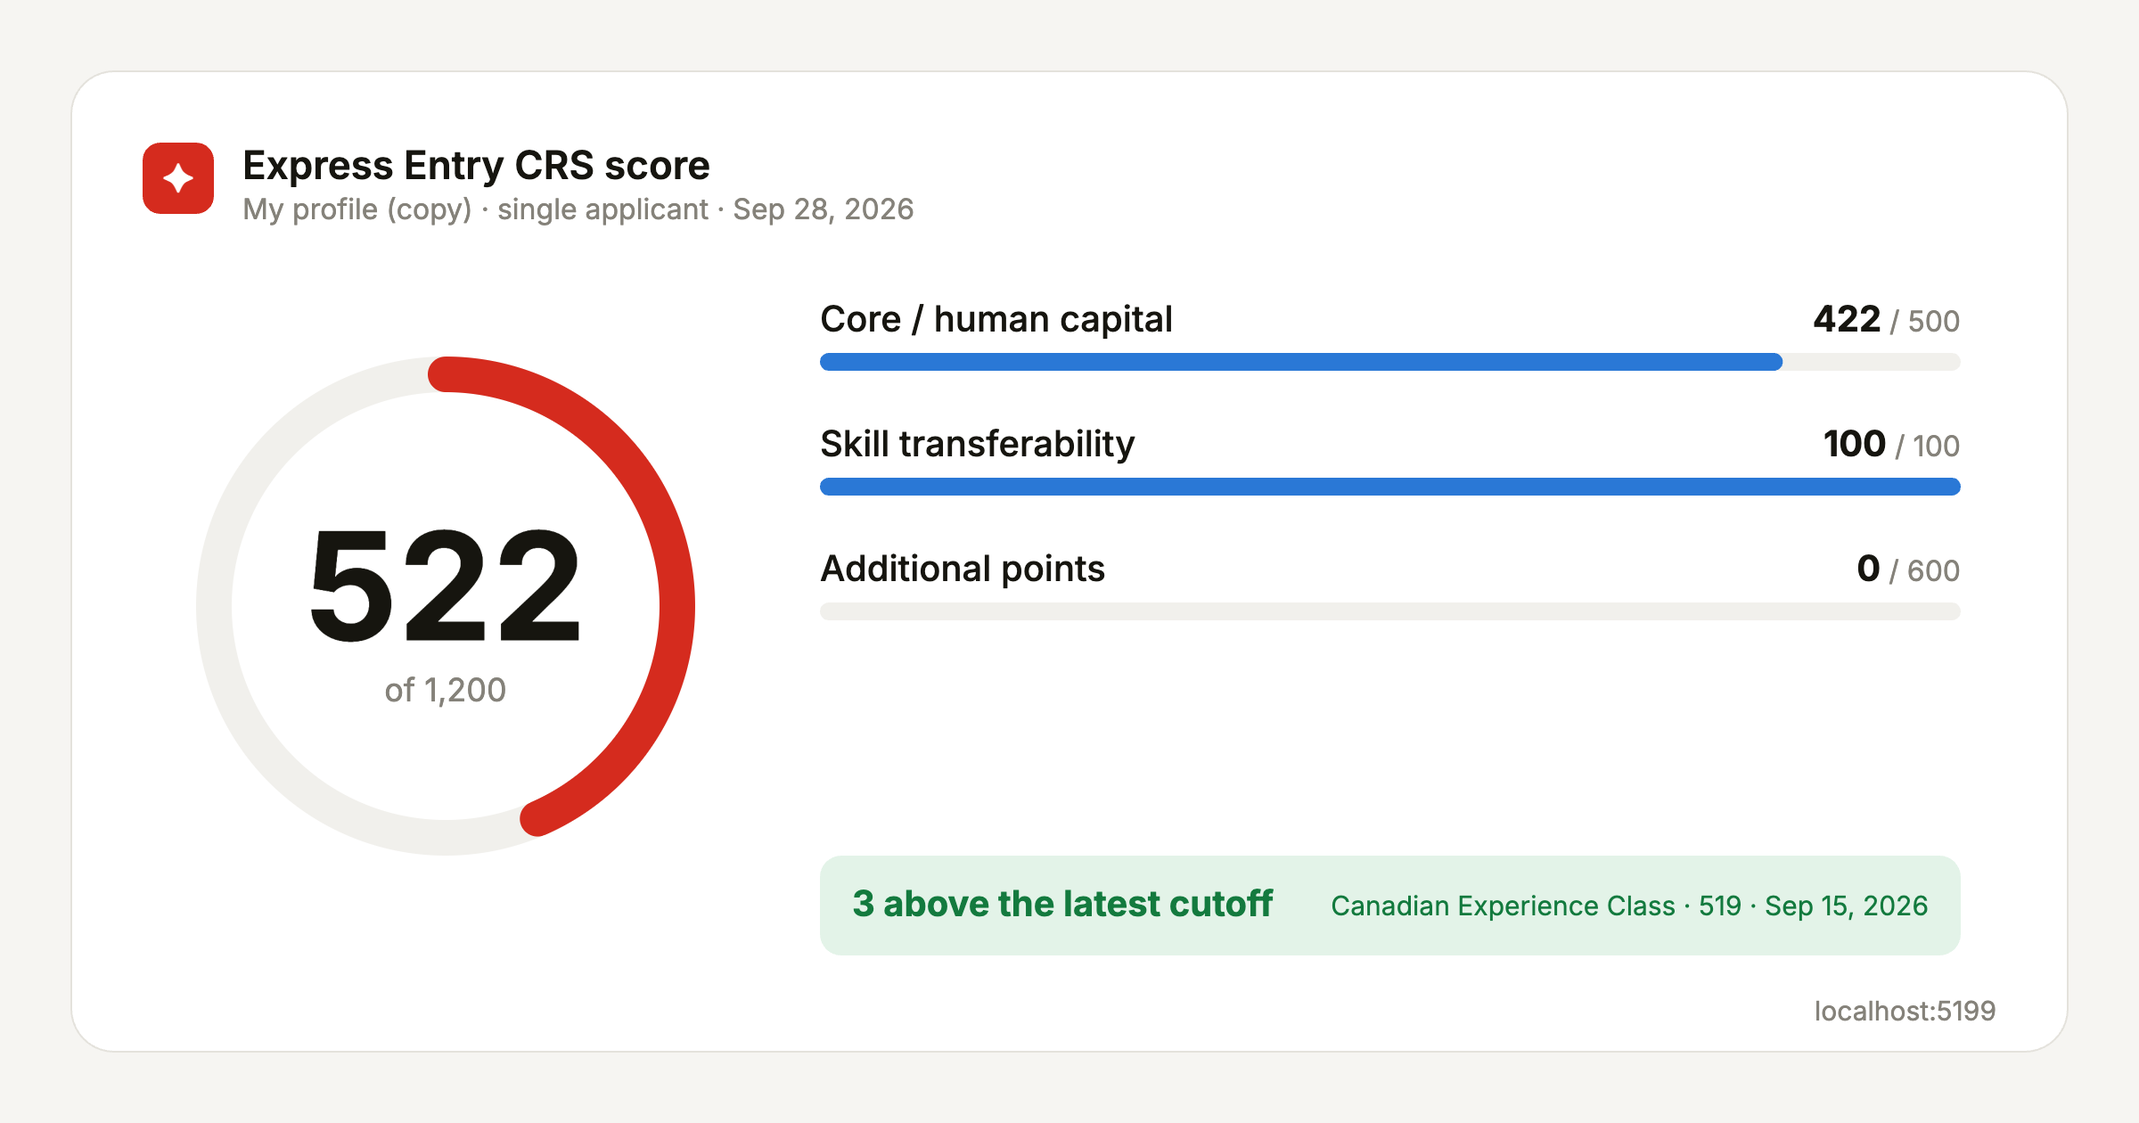
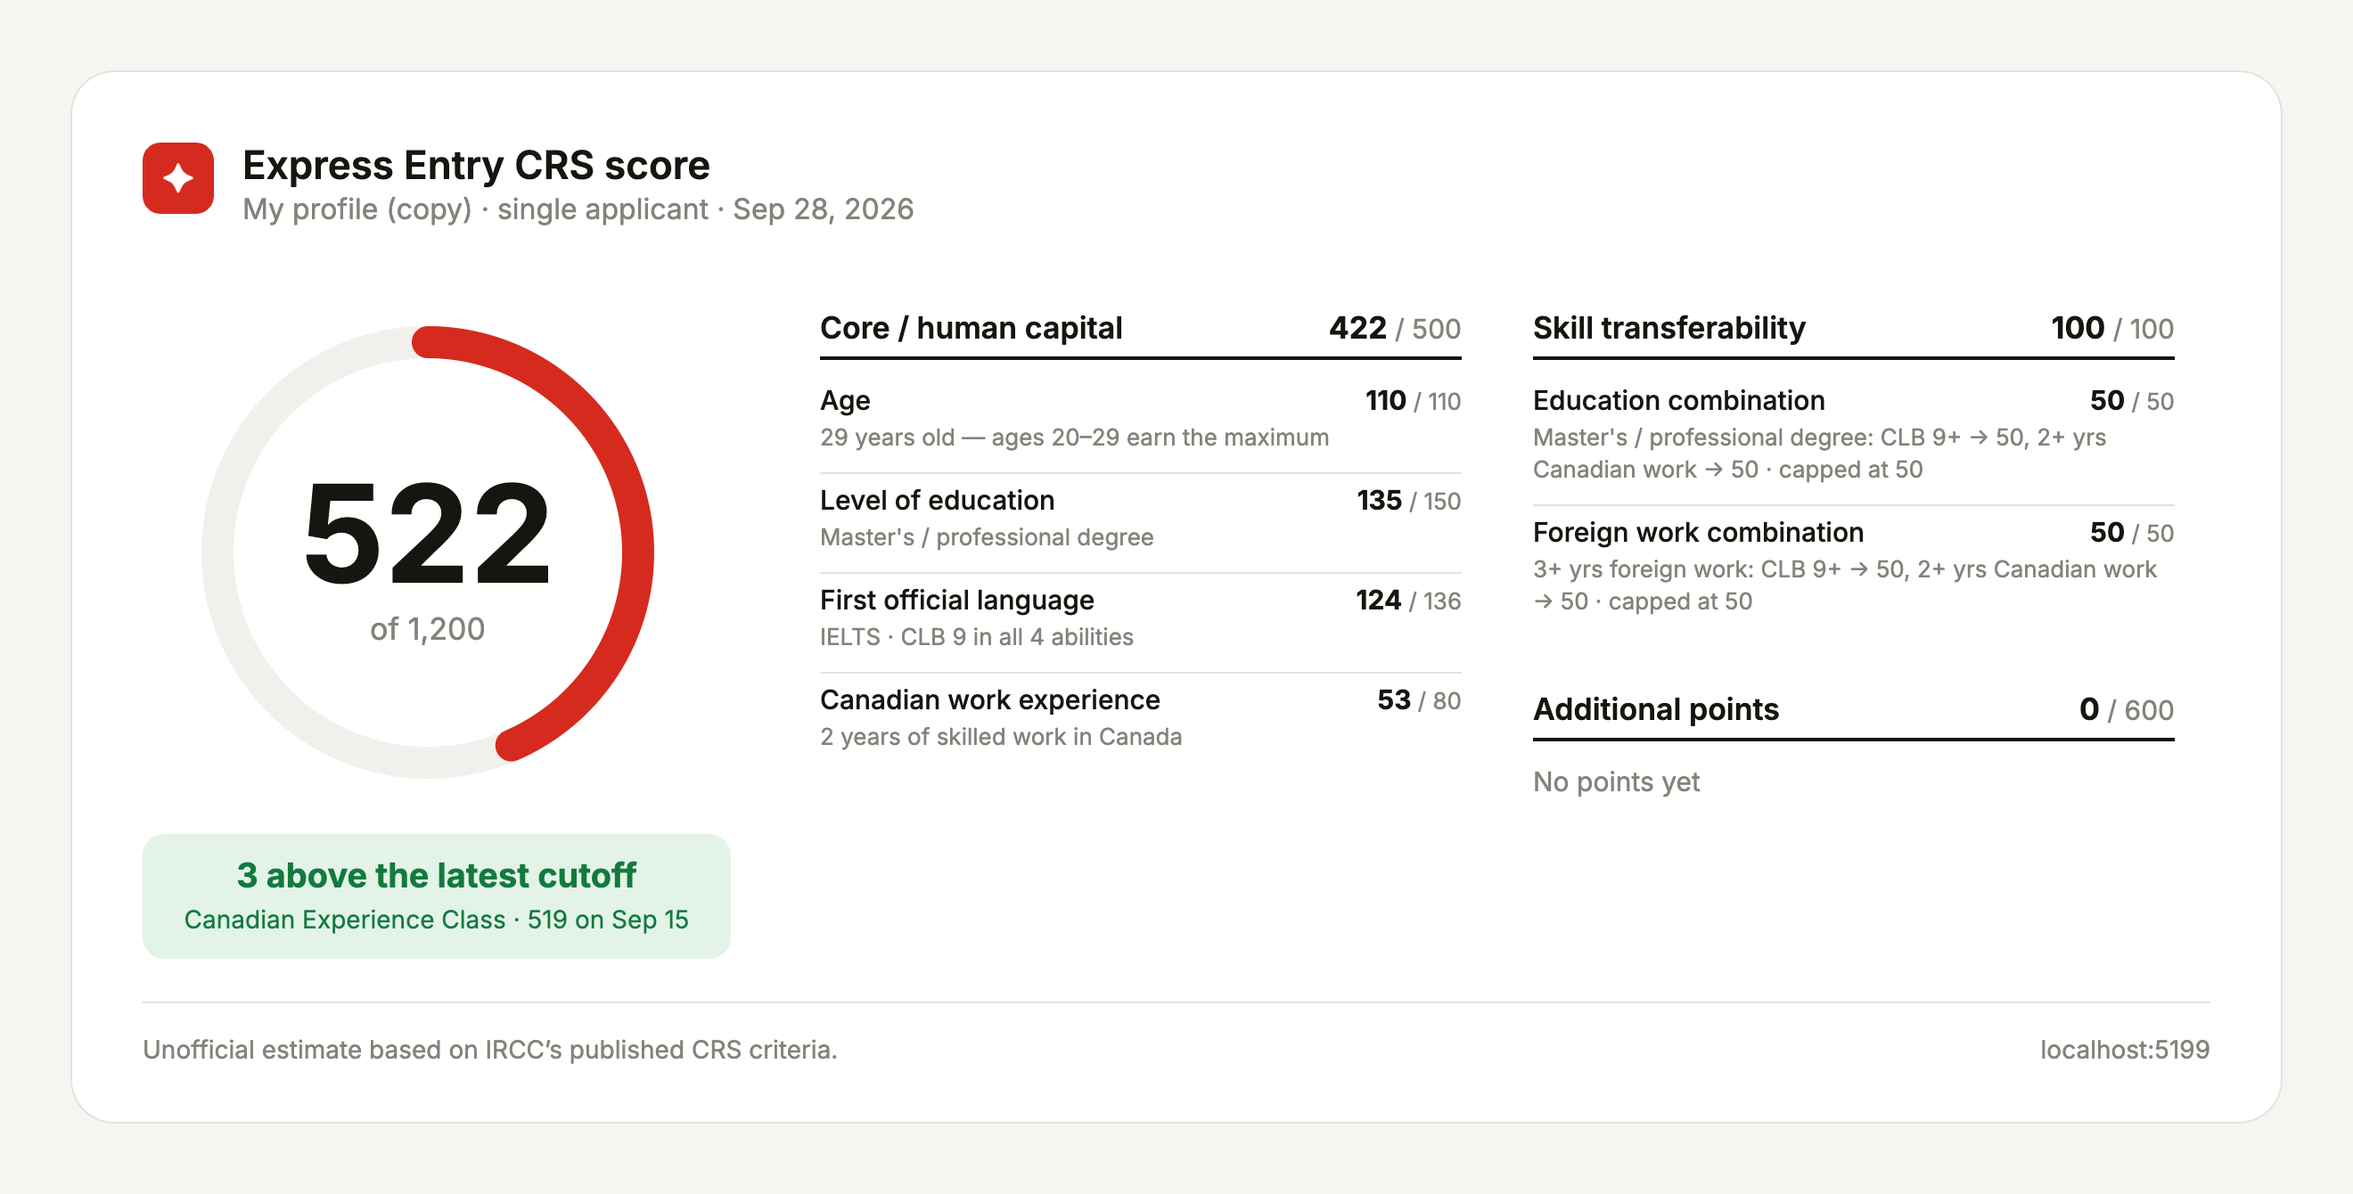
Explain the basis for every CRS line on the score card and breakdown
Each scoring line now carries a plain-language hint (e.g. "29 years old —
ages 20–29 earn the maximum", "IELTS · CLB L9 R7 W8 S9", combination
points and caps for skill transferability). Shown under each line on the
share image and in the results breakdown.

diff --git a/src/crs/calculate.ts b/src/crs/calculate.ts
@@ -1,5 +1,5 @@
-import { clbLevels, languageOf } from './language';
-import type { CrsResult, Education, Line, Profile, Section, Skill } from './types';
+import { clbLevels, languageOf, testInfo } from './language';
+import type { CrsResult, Education, LanguageResult, Line, Profile, Section, Skill } from './types';
 import { SKILLS } from './types';
 
 /*
@@ -45,6 +45,18 @@ export const EDUCATION_LABELS: Record<Education, string> = {
   doctoral: 'Doctoral degree (PhD)',
 };
 
+/** Compact education names for explanations. */
+const EDUCATION_SHORT: Record<Education, string> = {
+  none: 'Less than secondary school',
+  secondary: 'Secondary diploma',
+  oneYear: 'One-year program',
+  twoYear: 'Two-year program',
+  bachelors: "Bachelor's / 3+ year program",
+  twoOrMore: 'Two+ credentials (one 3+ years)',
+  masters: "Master's / professional degree",
+  doctoral: 'Doctoral degree (PhD)',
+};
+
 const CANADIAN_WORK: Pair[] = [[0, 0], [35, 40], [46, 53], [56, 64], [63, 72], [70, 80]];
 const SPOUSE_CANADIAN_WORK = [0, 5, 7, 8, 9, 10];
 
@@ -83,6 +95,42 @@ export function minLevelIn(p: Profile, lang: 'en' | 'fr') {
   return result ? minOf(clbLevels(result)) : 0;
 }
 
+/* ---------- Plain-language explanations for each line ---------- */
+
+const years = (n: number, plusAt: number) =>
+  n === 0 ? 'none' : n >= plusAt ? `${plusAt}+ years` : `${n} year${n > 1 ? 's' : ''}`;
+
+function ageHint(age: number | null) {
+  if (age == null) return 'Age not entered';
+  if (age < 18) return `${age} years old — under 18 earns no age points`;
+  if (age >= 45) return `${age} years old — 45+ earns no age points`;
+  if (age >= 20 && age <= 29) return `${age} years old — ages 20–29 earn the maximum`;
+  if (age >= 30) return `${age} years old — points drop each year after 29`;
+  return `${age} years old`;
+}
+
+function languageHint(r: LanguageResult, levels: Record<Skill, number>) {
+  if (!r.test) return 'No test entered';
+  const unit = languageOf(r) === 'fr' ? 'NCLC' : 'CLB';
+  const test = r.test === 'clb' ? '' : `${testInfo(r.test).short} · `;
+  const values = SKILLS.map((s) => levels[s]);
+  const show = (v: number) => (v === 0 ? '<4' : String(v));
+  if (values.every((v) => v === values[0])) {
+    return values[0] === 0 ? `${test}below ${unit} 4 in all abilities` : `${test}${unit} ${values[0]} in all 4 abilities`;
+  }
+  return `${test}${unit} L${show(levels.listening)} R${show(levels.reading)} W${show(levels.writing)} S${show(levels.speaking)}`;
+}
+
+const clbBand = (min: number) => (min >= 9 ? 'CLB 9+' : min >= 7 ? 'CLB 7–8' : 'CLB below 7');
+const cdnBand = (y: number) => (y >= 2 ? '2+ yrs Canadian work' : y === 1 ? '1 yr Canadian work' : 'no Canadian work');
+
+/** "A → 25, B → 13 · max 50" — each pairing's points, noting when the 50 cap applies. */
+function comboHint(prefix: string, parts: [string, number][], cap = 50) {
+  const total = parts.reduce((a, [, v]) => a + v, 0);
+  const body = parts.map(([k, v]) => `${k} → ${v}`).join(', ');
+  return `${prefix}: ${body}${total > cap ? ` · capped at ${cap}` : ''}`;
+}
+
 export function hasSpouseFactor(p: Profile) {
   return p.married && !p.spouseIsCanadian && p.spouseAccompanying;
 }
@@ -110,11 +158,16 @@ export function calculate(p: Profile): CrsResult {
     max: coreMax,
     points: 0,
     lines: [
-      { label: 'Age', points: age, max: withSpouse ? 100 : 110 },
-      { label: 'Level of education', points: education, max: withSpouse ? 140 : 150 },
-      { label: 'First official language', points: firstLang, max: withSpouse ? 128 : 136 },
-      { label: 'Second official language', points: secondLang, max: secondMax },
-      { label: 'Canadian work experience', points: cdnWork, max: withSpouse ? 70 : 80 },
+      { label: 'Age', points: age, max: withSpouse ? 100 : 110, hint: ageHint(p.age) },
+      { label: 'Level of education', points: education, max: withSpouse ? 140 : 150, hint: p.education ? EDUCATION_SHORT[p.education] : 'Education not entered' },
+      { label: 'First official language', points: firstLang, max: withSpouse ? 128 : 136, hint: languageHint(p.firstLanguage, first) },
+      {
+        label: 'Second official language',
+        points: secondLang,
+        max: secondMax,
+        hint: second ? languageHint(p.secondLanguage, second) + (sumOf(second, secondLanguagePoints) > secondMax ? ` · capped at ${secondMax}` : '') : 'No second-language test',
+      },
+      { label: 'Canadian work experience', points: cdnWork, max: withSpouse ? 70 : 80, hint: p.canadianWork ? `${years(p.canadianWork, 5)} of skilled work in Canada` : 'No Canadian work experience' },
     ],
   };
 
@@ -127,9 +180,14 @@ export function calculate(p: Profile): CrsResult {
     points: 0,
     lines: withSpouse
       ? [
-          { label: 'Spouse education', points: p.spouseEducation ? SPOUSE_EDUCATION[p.spouseEducation] : 0, max: 10 },
-          { label: 'Spouse official language', points: spouseLevels ? sumOf(spouseLevels, spouseLanguagePoints) : 0, max: 20 },
-          { label: 'Spouse Canadian work experience', points: SPOUSE_CANADIAN_WORK[Math.min(p.spouseCanadianWork, 5)], max: 10 },
+          { label: 'Spouse education', points: p.spouseEducation ? SPOUSE_EDUCATION[p.spouseEducation] : 0, max: 10, hint: p.spouseEducation ? EDUCATION_SHORT[p.spouseEducation] : 'Not entered' },
+          { label: 'Spouse official language', points: spouseLevels ? sumOf(spouseLevels, spouseLanguagePoints) : 0, max: 20, hint: spouseLevels ? languageHint(p.spouseLanguage, spouseLevels) : 'No test entered' },
+          {
+            label: 'Spouse Canadian work experience',
+            points: SPOUSE_CANADIAN_WORK[Math.min(p.spouseCanadianWork, 5)],
+            max: 10,
+            hint: p.spouseCanadianWork ? `${years(p.spouseCanadianWork, 5)} of skilled work in Canada` : 'No Canadian work experience',
+          },
         ]
       : [],
   };
@@ -164,9 +222,32 @@ export function calculate(p: Profile): CrsResult {
     max: 100,
     points: 0,
     lines: [
-      { label: 'Education + language / Canadian work', points: educationTransfer, max: 50 },
-      { label: 'Foreign work + language / Canadian work', points: foreignTransfer, max: 50 },
-      { label: 'Trade certificate + language', points: tradeTransfer, max: 50 },
+      {
+        label: 'Education + language / Canadian work',
+        points: educationTransfer,
+        max: 50,
+        hint: !p.education
+          ? 'Education not entered'
+          : !postSecondary
+            ? 'Needs a post-secondary credential'
+            : comboHint(EDUCATION_SHORT[p.education], [[clbBand(firstMin), edLang], [cdnBand(p.canadianWork), edWork]]),
+      },
+      {
+        label: 'Foreign work + language / Canadian work',
+        points: foreignTransfer,
+        max: 50,
+        hint: fw === 0
+          ? 'No foreign work experience'
+          : comboHint(`${fw >= 3 ? '3+' : fw} yr${fw > 1 ? 's' : ''} foreign work`, [[clbBand(firstMin), fwLang], [cdnBand(p.canadianWork), fwWork]]),
+      },
+      {
+        label: 'Trade certificate + language',
+        points: tradeTransfer,
+        max: 50,
+        hint: !p.tradeCertificate
+          ? 'No certificate of qualification'
+          : `Certificate of qualification with ${lang7 ? 'CLB 7+' : firstMin >= 5 ? 'CLB 5–6' : 'CLB below 5'}`,
+      },
     ],
   };
 
@@ -182,10 +263,22 @@ export function calculate(p: Profile): CrsResult {
     max: 600,
     points: 0,
     lines: [
-      { label: 'Provincial nomination', points: p.provincialNomination ? 600 : 0, max: 600 },
-      { label: 'French-language skills', points: frenchBonus, max: 50 },
-      { label: 'Post-secondary study in Canada', points: studyBonus, max: 30 },
-      { label: 'Sibling in Canada', points: p.sibling ? 15 : 0, max: 15 },
+      { label: 'Provincial nomination', points: p.provincialNomination ? 600 : 0, max: 600, hint: p.provincialNomination ? 'Nominated by a province or territory' : 'No nomination' },
+      {
+        label: 'French-language skills',
+        points: frenchBonus,
+        max: 50,
+        hint: french >= 7
+          ? `NCLC 7+ French ${english >= 5 ? 'and CLB 5+ English' : 'with English below CLB 5'}`
+          : french > 0 ? `French at NCLC ${french} — needs NCLC 7+ in all abilities` : 'No French at NCLC 7+',
+      },
+      {
+        label: 'Post-secondary study in Canada',
+        points: studyBonus,
+        max: 30,
+        hint: p.canadianStudy === 'threePlus' ? "3+ year credential, master's or PhD from Canada" : p.canadianStudy === 'oneOrTwo' ? '1–2 year credential from Canada' : 'No Canadian credential',
+      },
+      { label: 'Sibling in Canada', points: p.sibling ? 15 : 0, max: 15, hint: p.sibling ? 'Sibling who is a citizen or permanent resident' : 'No sibling in Canada' },
     ],
   };
 

diff --git a/src/components/scoreCard.ts b/src/components/scoreCard.ts
@@ -3,7 +3,7 @@ import type { Draw } from '../draws/aggregator';
 import { CATEGORY_LABELS } from '../draws/aggregator';
 import { formatDate } from './format';
 
-const W = 1200;
+const W = 1320;
 const C = {
   bg: '#f6f5f2',
   card: '#ffffff',
@@ -31,10 +31,14 @@ const SHORT: Record<string, string> = {
   'Post-secondary study in Canada': 'Study in Canada',
 };
 
-const COL_W = 310;
-const ROW_H = 30;
+const COL_W = 360;
+const COL_B_X = 460 + COL_W + 40;
+const LABEL_H = 28;
+const HINT_LINE_H = 18;
+const ROW_PAD = 10;
 const HEAD_H = 40;
 const SECTION_GAP = 26;
+const HINT_FONT = `400 13px ${FONT}`;
 
 function roundRect(ctx: CanvasRenderingContext2D, x: number, y: number, w: number, h: number, r: number) {
   ctx.beginPath();
@@ -48,9 +52,38 @@ function fitText(ctx: CanvasRenderingContext2D, text: string, max: number) {
   return `${t}…`;
 }
 
-type SectionView = { title: string; points: number; max: number; lines: { label: string; points: number; max: number }[] };
+type LineView = { label: string; points: number; max: number; hint?: string };
+type SectionView = { title: string; points: number; max: number; lines: LineView[] };
 
-const sectionHeight = (s: SectionView) => HEAD_H + Math.max(1, s.lines.length) * ROW_H;
+/** Word-wrap to at most `maxLines`, ellipsising whatever doesn't fit. */
+function wrap(ctx: CanvasRenderingContext2D, text: string, width: number, maxLines = 2) {
+  const lines: string[] = [];
+  let current = '';
+  for (const word of text.split(' ')) {
+    const next = current ? `${current} ${word}` : word;
+    if (ctx.measureText(next).width <= width || !current) current = next;
+    else {
+      lines.push(current);
+      current = word;
+    }
+  }
+  if (current) lines.push(current);
+  if (lines.length > maxLines) {
+    const kept = lines.slice(0, maxLines);
+    kept[maxLines - 1] = fitText(ctx, `${kept[maxLines - 1]} ${lines.slice(maxLines).join(' ')}`, width);
+    return kept;
+  }
+  return lines;
+}
+
+const hintLines = (ctx: CanvasRenderingContext2D, l: LineView) => {
+  if (!l.hint) return [];
+  ctx.font = HINT_FONT;
+  return wrap(ctx, l.hint, COL_W);
+};
+const rowHeight = (ctx: CanvasRenderingContext2D, l: LineView) => LABEL_H + hintLines(ctx, l).length * HINT_LINE_H + ROW_PAD;
+const sectionHeight = (ctx: CanvasRenderingContext2D, s: SectionView) =>
+  HEAD_H + (s.lines.length ? s.lines.reduce((h, l) => h + rowHeight(ctx, l), 0) : LABEL_H + ROW_PAD);
 
 /** Draws a section: title with subtotal, then every line that earned points. */
 function drawSection(ctx: CanvasRenderingContext2D, s: SectionView, x: number, y: number) {
@@ -72,16 +105,22 @@ function drawSection(ctx: CanvasRenderingContext2D, s: SectionView, x: number, y
     return;
   }
   for (const [i, l] of s.lines.entries()) {
+    const h = rowHeight(ctx, l);
+    const hints = hintLines(ctx, l);
     ctx.textAlign = 'left';
-    ctx.fillStyle = C.text2;
-    ctx.font = `400 15px ${FONT}`;
-    ctx.fillText(fitText(ctx, SHORT[l.label] ?? l.label, COL_W - 80), x, ry + 20);
+    ctx.fillStyle = C.text;
+    ctx.font = `500 15px ${FONT}`;
+    ctx.fillText(fitText(ctx, SHORT[l.label] ?? l.label, COL_W - 90), x, ry + 20);
     drawPoints(ctx, l.points, l.max, right, ry + 20, 15);
+    ctx.textAlign = 'left';
+    ctx.fillStyle = C.text3;
+    ctx.font = HINT_FONT;
+    hints.forEach((line, j) => ctx.fillText(line, x, ry + LABEL_H + 12 + j * HINT_LINE_H));
     if (i < s.lines.length - 1) {
       ctx.fillStyle = C.border;
-      ctx.fillRect(x, ry + ROW_H - 1, COL_W, 1);
+      ctx.fillRect(x, ry + h - 1, COL_W, 1);
     }
-    ry += ROW_H;
+    ry += h;
   }
 }
 
@@ -112,10 +151,11 @@ export async function renderScoreCard(result: CrsResult, benchmark: Draw | undef
     max: s.max,
     lines: s.lines.filter((l) => l.points > 0),
   }));
+  const measure = document.createElement('canvas').getContext('2d')!;
   // Two balanced columns: core (+ spouse) on the left, the rest on the right.
   const colA = sections.filter((s) => s.title.startsWith('Core') || s.title.startsWith('Spouse'));
   const colB = sections.filter((s) => !colA.includes(s));
-  const colHeight = (col: SectionView[]) => col.reduce((h, s) => h + sectionHeight(s) + SECTION_GAP, -SECTION_GAP);
+  const colHeight = (col: SectionView[]) => col.reduce((h, s) => h + sectionHeight(measure, s) + SECTION_GAP, -SECTION_GAP);
 
   const top = 170;
   const contentBottom = Math.max(top + colHeight(colA), top + colHeight(colB), 560);
@@ -203,12 +243,12 @@ export async function renderScoreCard(result: CrsResult, benchmark: Draw | undef
   let y = top;
   for (const s of colA) {
     drawSection(ctx, s, 460, y);
-    y += sectionHeight(s) + SECTION_GAP;
+    y += sectionHeight(ctx, s) + SECTION_GAP;
   }
   y = top;
   for (const s of colB) {
-    drawSection(ctx, s, 810, y);
-    y += sectionHeight(s) + SECTION_GAP;
+    drawSection(ctx, s, COL_B_X, y);
+    y += sectionHeight(ctx, s) + SECTION_GAP;
   }
 
   // Footer

diff --git a/src/styles.css b/src/styles.css
@@ -266,9 +266,11 @@ input, select { font: inherit; color: inherit; }
 .tip-gain { flex: none; min-width: 56px; text-align: center; font-weight: 700; color: var(--good); background: var(--good-soft); padding: 6px 8px; border-radius: 8px; }
 .breakdown-full { display: grid; grid-template-columns: repeat(auto-fit, minmax(260px, 1fr)); gap: 20px; }
 .breakdown-full table { width: 100%; border-collapse: collapse; font-size: 13.5px; }
-.breakdown-full caption { display: flex; justify-content: space-between; font-weight: 600; padding-bottom: 6px; border-bottom: 2px solid var(--text); text-align: left; }
-.breakdown-full th { text-align: left; font-weight: 400; padding: 6px 0; }
-.breakdown-full td { text-align: right; padding: 6px 0 6px 8px; font-weight: 600; width: 1%; white-space: nowrap; }
+.breakdown-full thead th { font-weight: 600; padding: 0 0 6px; border-bottom: 2px solid var(--text); text-align: left; }
+.breakdown-full thead th + th { text-align: right; white-space: nowrap; }
+.breakdown-full { align-items: start; }
+.breakdown-full tbody th { text-align: left; font-weight: 400; padding: 7px 0; vertical-align: top; }
+.breakdown-full td { text-align: right; padding: 7px 0 7px 8px; font-weight: 600; width: 1%; white-space: nowrap; }
 .breakdown-full td.muted { font-weight: 400; }
 .breakdown-full tr { border-bottom: 1px solid var(--border); }
 .breakdown-full tr.zero th, .breakdown-full tr.zero td:first-of-type { color: var(--text-3); }
@@ -464,3 +466,6 @@ input, select { font: inherit; color: inherit; }
 @media print {
   .scenario-bar, .banner-slot, .toast { display: none !important; }
 }
+
+.breakdown-full th .line-hint { display: block; font-size: 12px; color: var(--text-3); margin-top: 1px; }
+.breakdown-full td { vertical-align: top; }

diff --git a/src/crs/calculate.test.ts b/src/crs/calculate.test.ts
@@ -66,6 +66,31 @@ describe('calculate', () => {
   });
 });
 
+describe('line hints', () => {
+  const hint = (r: ReturnType<typeof calculate>, label: string) =>
+    r.sections.flatMap((s) => s.lines).find((l) => l.label === label)!.hint;
+
+  it('explains what each line is based on', () => {
+    const r = calculate(profile({ age: 29, education: 'masters', firstLanguage: clb(9), foreignWork: 3, canadianWork: 2 }));
+    expect(hint(r, 'Age')).toBe('29 years old — ages 20–29 earn the maximum');
+    expect(hint(r, 'Level of education')).toBe("Master's / professional degree");
+    expect(hint(r, 'First official language')).toBe('CLB 9 in all 4 abilities');
+    expect(hint(r, 'Canadian work experience')).toBe('2 years of skilled work in Canada');
+    expect(hint(r, 'Education + language / Canadian work')).toBe(
+      "Master's / professional degree: CLB 9+ → 50, 2+ yrs Canadian work → 50 · capped at 50",
+    );
+    expect(hint(r, 'Second official language')).toBe('No second-language test');
+  });
+
+  it('shows per-ability levels when they differ', () => {
+    const r = calculate(profile({
+      age: 35,
+      firstLanguage: { test: 'ielts', clbLanguage: 'en', scores: { listening: '8', reading: '6', writing: '6.5', speaking: '7' } },
+    }));
+    expect(hint(r, 'First official language')).toBe('IELTS · CLB L9 R7 W8 S9');
+  });
+});
+
 describe('toClb', () => {
   it('converts IELTS bands', () => {
     expect(toClb('ielts', 'listening', '8')).toBe(9);

diff --git a/src/components/Results.tsx b/src/components/Results.tsx
@@ -138,14 +138,19 @@ export function Results({
         <div className="breakdown-full">
           {result.sections.map((s) => (
             <table key={s.id}>
-              <caption>
-                <span>{s.title}</span>
-                <span>{s.points} / {s.max}</span>
-              </caption>
+              <thead>
+                <tr>
+                  <th scope="col">{s.title}</th>
+                  <th scope="col" colSpan={2}>{s.points} / {s.max}</th>
+                </tr>
+              </thead>
               <tbody>
                 {s.lines.map((l) => (
                   <tr key={l.label} className={l.points === 0 ? 'zero' : ''}>
-                    <th scope="row">{l.label}</th>
+                    <th scope="row">
+                      {l.label}
+                      {l.hint && <small className="line-hint">{l.hint}</small>}
+                    </th>
                     <td>{l.points}</td>
                     <td className="muted">/ {l.max}</td>
                   </tr>
